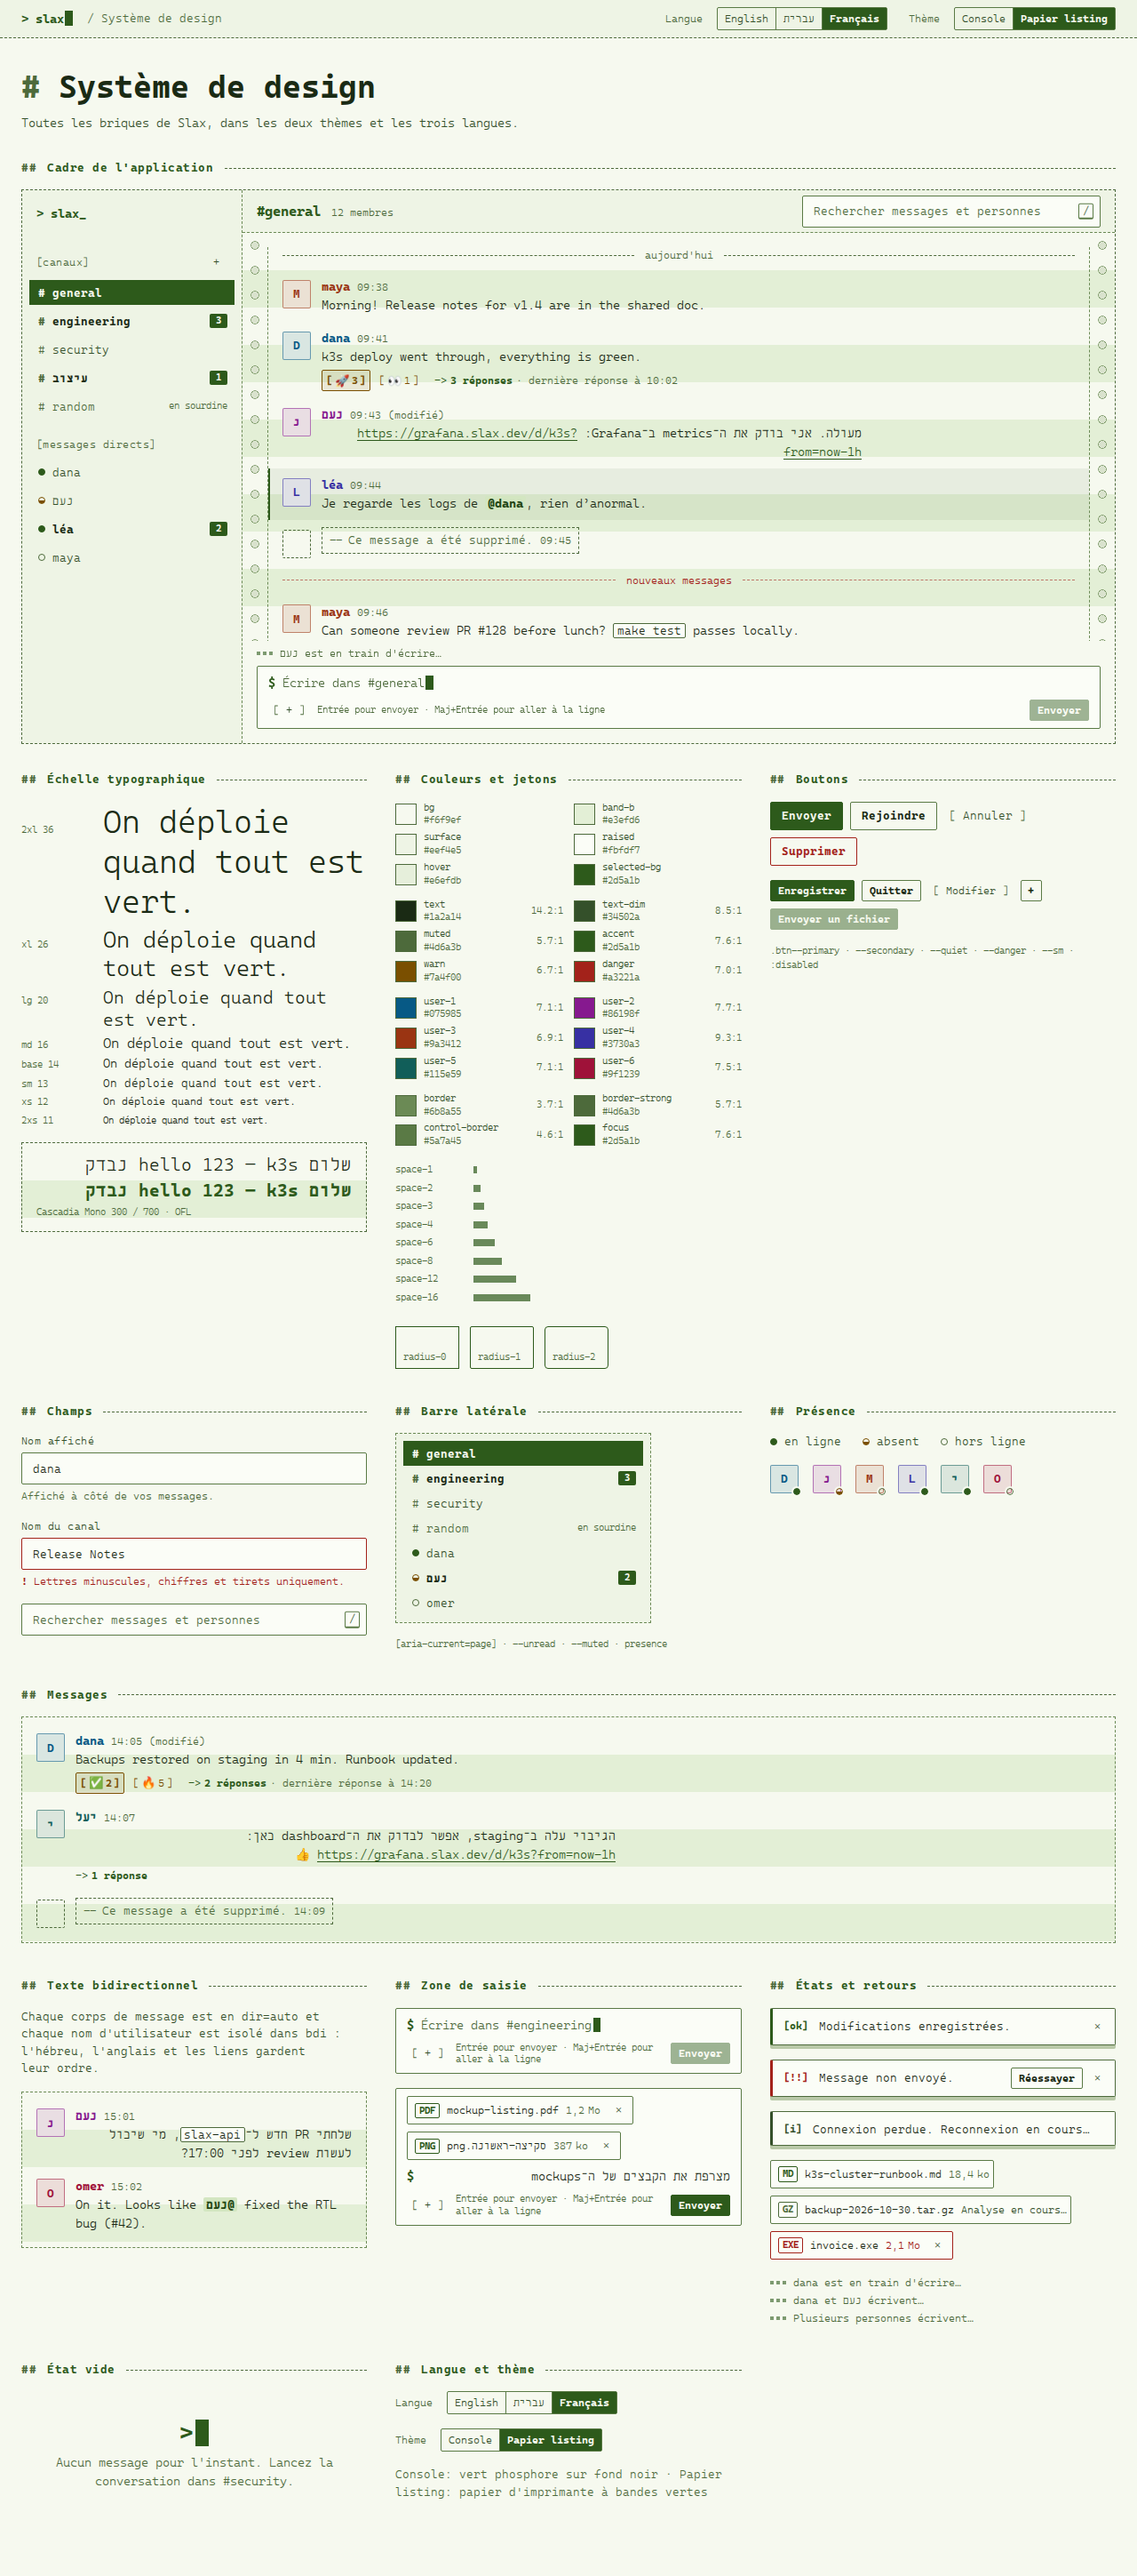
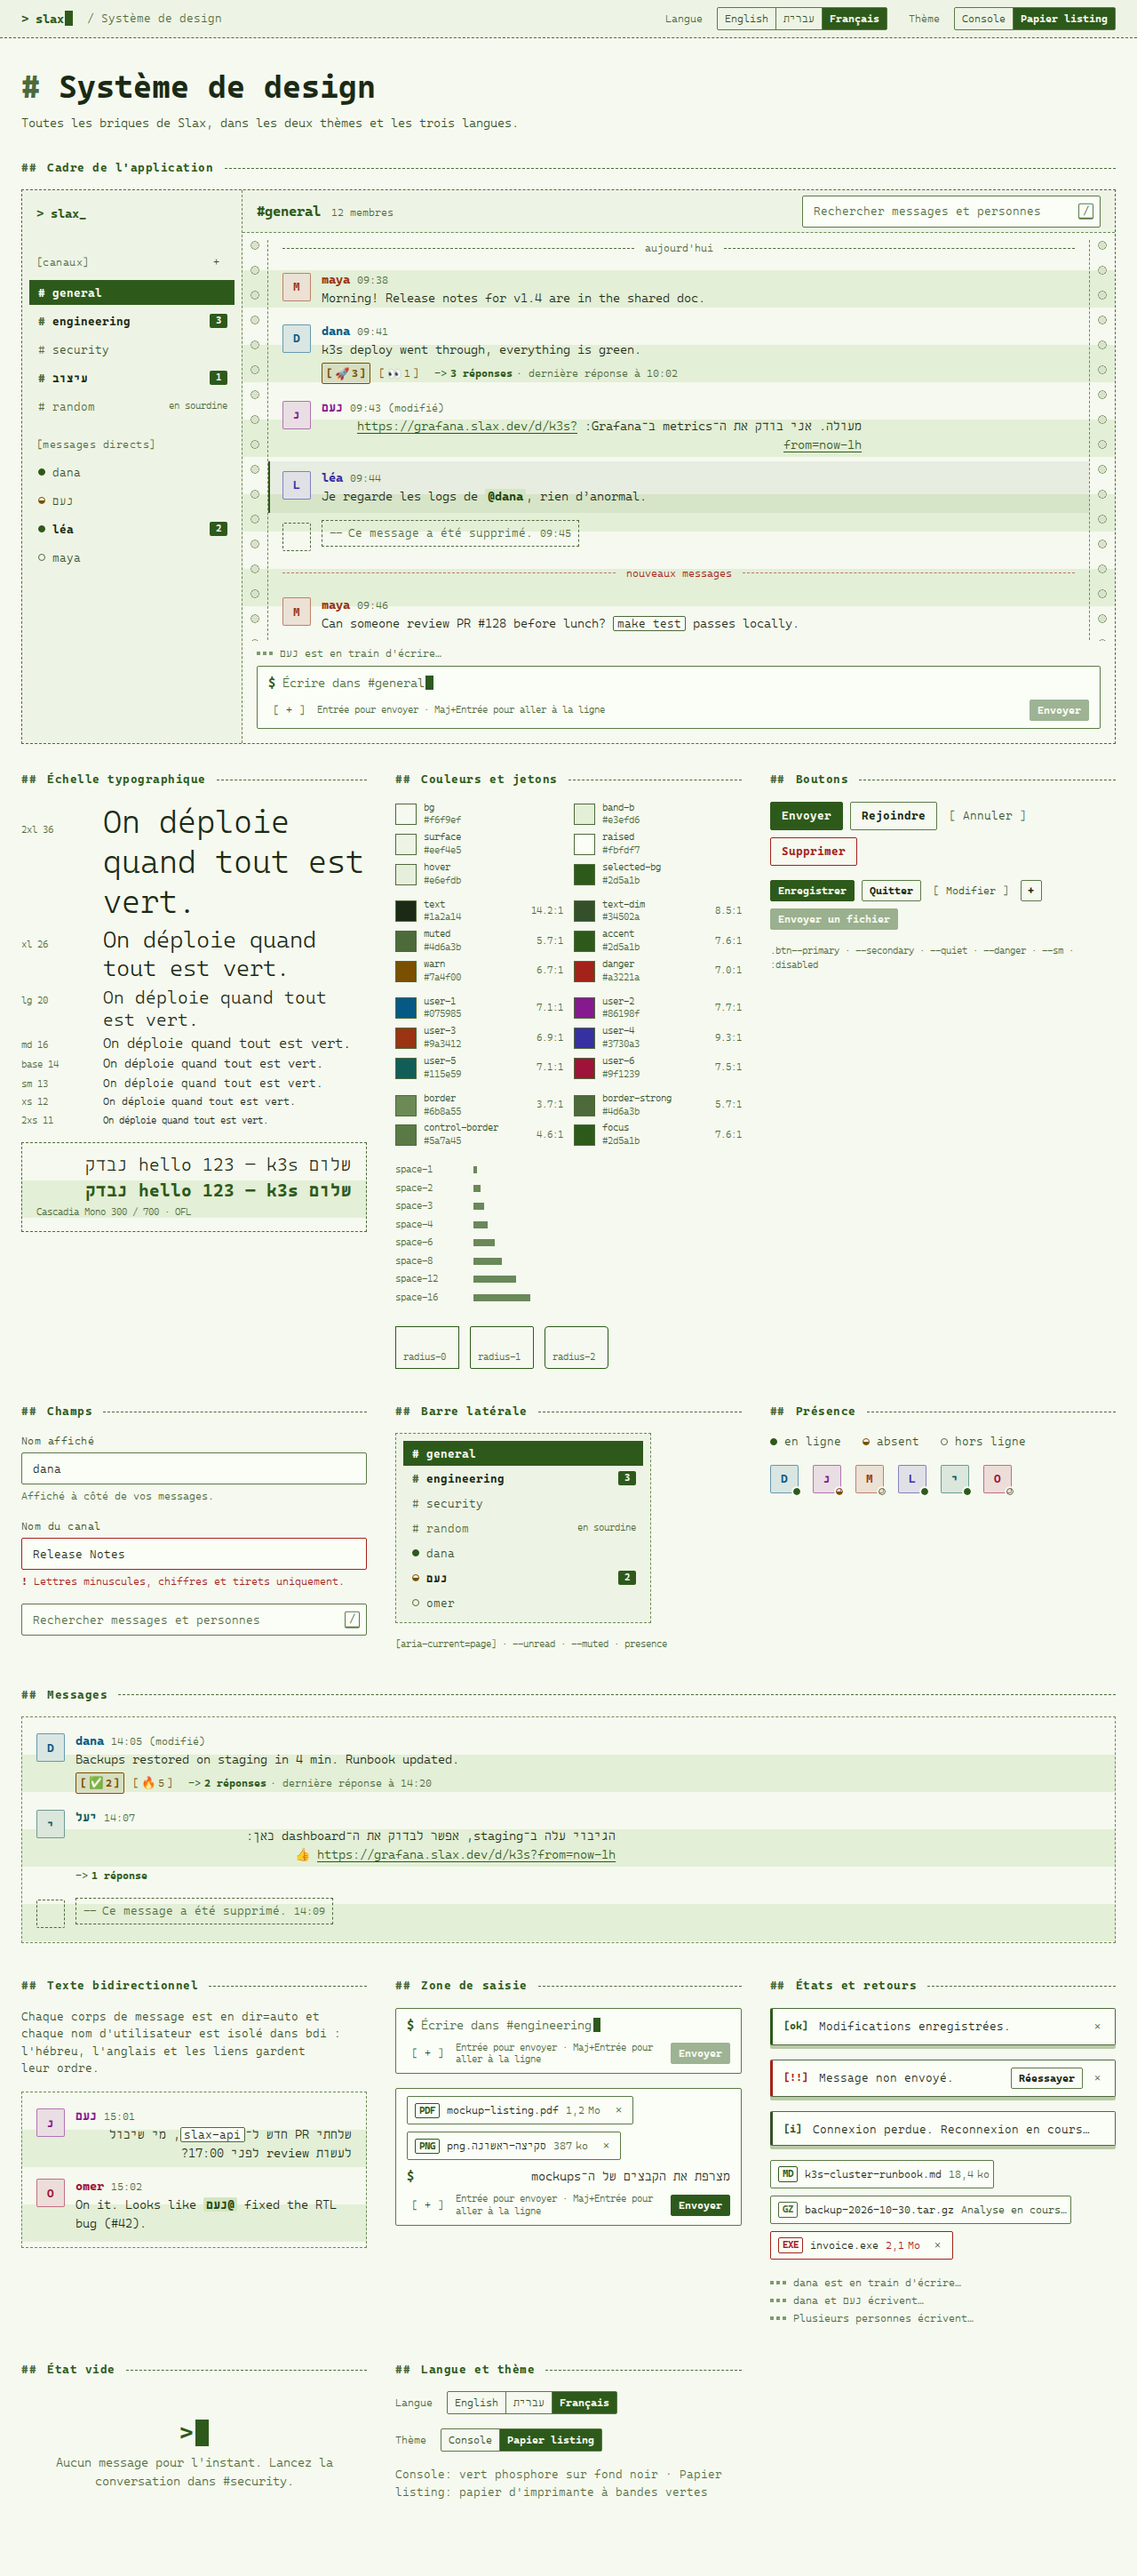
docs: application screenshots from the real app on fixtures
make screenshots now also builds app-preview.html (design-system build
only) and captures the sign-in screen and the workspace in both themes
and three languages, the account menu, a sign-in error and phones, with
the same layout checks, into docs/design/app/. The kitchen-sink shots
are regenerated (messages now sit at the bottom of a short list).

Changed region(s): [[0.25, 0.0932, 0.6875, 0.2795], [0.6875, 0.1553, 0.75, 0.1863], [0.5625, 0.0932, 0.625, 0.1242]]

diff --git a/frontend/src/design-system/app-fixtures.ts b/frontend/src/design-system/app-fixtures.ts
@@ -1,0 +1,99 @@
+/**
+ * The real application, fed with fixtures instead of a server: a stand-in `fetch` that
+ * answers the few API routes the screens need, and a realtime client that never
+ * delivers anything. Used by app-preview.html for review screenshots only (it is part
+ * of the design-system build, never of the production one).
+ */
+import { signal } from '@preact/signals'
+import type { Channel, Me, Message, UserSummary } from '../api/types.ts'
+import type { Realtime } from '../realtime/echo.ts'
+
+const ALICE: UserSummary = { id: 1, name: 'Alice Martin', avatar_url: null }
+const DANA: UserSummary = { id: 2, name: 'dana', avatar_url: null }
+const NOAM: UserSummary = { id: 3, name: 'נעם', avatar_url: null }
+const ME: Me = { ...ALICE, email: 'alice@example.test', locale: 'en', theme: 'console', is_admin: false }
+
+const base = new Date()
+const at = (daysAgo: number, hh: number, mm: number) =>
+  new Date(base.getFullYear(), base.getMonth(), base.getDate() - daysAgo, hh, mm).toISOString()
+
+let nextId = 1
+function message(user: UserSummary, channelId: number, body: string, created: string, extra: Partial<Message> = {}): Message {
+  const id = nextId++
+  return {
+    id,
+    channel_id: channelId,
+    parent_id: null,
+    created_at: created,
+    reply_count: 0,
+    last_reply_at: null,
+    deleted: false,
+    client_id: `00000000-0000-4000-8000-${String(id).padStart(12, '0')}`,
+    user,
+    body,
+    edited_at: null,
+    reactions: [],
+    files: [],
+    ...extra,
+  } as Message
+}
+
+const GRAFANA = 'https://grafana.slax.dev/d/k3s?from=now-1h'
+
+const general: Message[] = [
+  message(DANA, 1, 'Release notes for v1.4 are in the shared doc. Ping me if something is missing.', at(1, 16, 20)),
+  message(ALICE, 1, 'Thanks! Reading them now.', at(1, 16, 23)),
+  message(NOAM, 1, `מעולה. אני בודק את ה־metrics ב־Grafana: ${GRAFANA}`, at(0, 9, 38), { edited_at: at(0, 9, 39) }),
+  message(NOAM, 1, 'הכול ירוק 🚀', at(0, 9, 39)),
+  message(DANA, 1, 'k3s deploy went through, everything is green.', at(0, 9, 42)),
+  message(ALICE, 1, 'Great work @dana and @נעם 🎉', at(0, 9, 44)),
+]
+const lastRead = general[general.length - 1].id
+general.push(
+  { id: nextId++, channel_id: 1, parent_id: null, created_at: at(0, 9, 45), reply_count: 0, last_reply_at: null, deleted: true },
+  message(DANA, 1, 'Can someone review PR #128 before lunch? make test passes locally.', at(0, 9, 47)),
+  message(NOAM, 1, 'אני על זה. Looking at the diff now.', at(0, 9, 49)),
+  message(NOAM, 1, 'Two small comments, otherwise LGTM.', at(0, 9, 51)),
+)
+
+const channels: Channel[] = [
+  room(1, 'general', 'Announcements and everything that fits nowhere else', { member_count: 12, last_read_message_id: lastRead, unread_count: 3 }),
+  room(2, 'ingenierie', 'Engineering', { unread_count: 3 }),
+  room(5, 'ops-oncall', 'Pager rotation', { kind: 'private', unread_count: 128, member_count: 4 }),
+  room(3, 'random', 'Off-topic chatter'),
+  room(4, 'securite', 'Security', { is_member: false }),
+  { ...room(6, '', null), kind: 'dm', name: null, member_count: 2, members: [ALICE, DANA] },
+  { ...room(7, '', null), kind: 'dm', name: null, member_count: 2, members: [ALICE, NOAM], unread_count: 1 },
+  { ...room(8, '', null), kind: 'group_dm', name: null, member_count: 3, members: [ALICE, DANA, NOAM] },
+]
+
+function room(id: number, name: string, topic: string | null, extra: Partial<Channel> = {}): Channel {
+  return { id, kind: 'public', name, topic, is_member: true, member_count: 8, last_read_message_id: null, unread_count: 0, ...extra }
+}
+
+const json = (body: unknown, status = 200) =>
+  new Response(body === undefined ? null : JSON.stringify(body), { status, headers: { 'Content-Type': 'application/json' } })
+
+export function installFixtureServer({ signedIn }: { signedIn: boolean }): void {
+  globalThis.fetch = async (input: RequestInfo | URL) => {
+    const url = new URL(String(input instanceof Request ? input.url : input), location.href)
+    const path = url.pathname
+    if (path === '/api/v1/me') return signedIn ? json(ME) : json({ message: 'Unauthenticated.' }, 401)
+    if (path === '/api/v1/channels') return json(channels)
+    const list = /^\/api\/v1\/channels\/(\d+)\/messages$/.exec(path)
+    if (list) {
+      const id = Number(list[1])
+      const data = id === 1 ? general : id === 4 ? [message(NOAM, 4, 'Rotated the Turnstile keys.', at(0, 8, 12))] : []
+      return json({ data, has_more: false })
+    }
+    return json(undefined, 204)
+  }
+}
+
+/** Connected, silent. */
+export const fixtureRealtime: Realtime = {
+  state: signal('connected'),
+  subscribe: () => () => undefined,
+  onReconnect: () => () => undefined,
+  disconnect: () => undefined,
+}

diff --git a/frontend/src/design-system/app-preview.tsx b/frontend/src/design-system/app-preview.tsx
@@ -1,0 +1,29 @@
+/**
+ * The real application on fixtures, for review screenshots (`make screenshots`):
+ * ?screen=signed-out|app, ?theme=console|listing, ?lang=en|he|fr, and
+ * ?auth_error=<code> on the sign-in screen.
+ */
+import { render } from 'preact'
+import '../styles/index.css'
+import { App } from '../app.tsx'
+import { initLocale, isLocale, setLocale } from '../i18n/index.ts'
+import { listenToHistory } from '../router.ts'
+import { boot, installClientEvents } from '../session.ts'
+import { initTheme, isTheme, setTheme } from '../theme.ts'
+import { fixtureRealtime, installFixtureServer } from './app-fixtures.ts'
+
+initTheme()
+initLocale()
+const params = new URLSearchParams(location.search)
+const theme = params.get('theme')
+const lang = params.get('lang')
+if (isTheme(theme)) setTheme(theme)
+if (isLocale(lang)) setLocale(lang)
+
+installFixtureServer({ signedIn: params.get('screen') !== 'signed-out' })
+installClientEvents()
+listenToHistory()
+void boot()
+
+const neverAsked = { token: () => new Promise<string>(() => undefined) }
+render(<App connect={async () => fixtureRealtime} turnstile={neverAsked} />, document.getElementById('app')!)

diff --git a/frontend/vite.config.ts b/frontend/vite.config.ts
@@ -4,12 +4,14 @@ import { defineConfig } from 'vite'
 
 export default defineConfig(({ mode }) => ({
   plugins: [preact()],
-  // The design-system kitchen sink (design-system.html) is served by the dev
-  // server like any page, but a production build ships the app only. Its own
-  // build exists for `make screenshots`: `vite build --mode design-system`.
+  // The design-system kitchen sink (design-system.html) and the app preview
+  // (app-preview.html) are served by the dev server like any page, but a
+  // production build ships the app only. Their own build exists for
+  // `make screenshots`: `vite build --mode design-system`.
   build: {
     outDir: mode === 'design-system' ? 'dist-design-system' : 'dist',
-    rolldownOptions: { input: mode === 'design-system' ? 'design-system.html' : 'index.html' },
+    // The design-system build also carries app-preview.html: the real app on fixtures, for screenshots.
+    rolldownOptions: { input: mode === 'design-system' ? ['design-system.html', 'app-preview.html'] : 'index.html' },
   },
   server: {
     // In Docker the browser reaches Vite through the nginx proxy, not port 5173.

diff --git a/frontend/app-preview.html b/frontend/app-preview.html
@@ -1,0 +1,17 @@
+<!doctype html>
+<html lang="en" dir="ltr">
+  <head>
+    <meta charset="UTF-8" />
+    <link rel="icon" type="image/svg+xml" href="/favicon.svg" />
+    <meta name="viewport" content="width=device-width, initial-scale=1.0" />
+    <meta name="color-scheme" content="dark light" />
+    <meta name="robots" content="noindex" />
+    <link rel="preload" href="/fonts/cascadia-mono-latin-300.woff2" as="font" type="font/woff2" crossorigin />
+    <link rel="preload" href="/fonts/cascadia-mono-latin-700.woff2" as="font" type="font/woff2" crossorigin />
+    <title>Slax · app preview</title>
+  </head>
+  <body>
+    <div id="app"></div>
+    <script type="module" src="/src/design-system/app-preview.tsx"></script>
+  </body>
+</html>

diff --git a/frontend/src/build.test.ts b/frontend/src/build.test.ts
@@ -23,11 +23,13 @@ describe('production build', () => {
     const out = await buildInto()
     expect(existsSync(join(out, 'index.html'))).toBe(true)
     expect(existsSync(join(out, 'design-system.html'))).toBe(false)
+    expect(existsSync(join(out, 'app-preview.html'))).toBe(false)
     expect(existsSync(join(out, 'fonts', 'OFL.txt'))).toBe(true)
   }, 60_000)
 
   it('builds the kitchen sink only in the design-system mode (used by make screenshots)', async () => {
     const out = await buildInto('design-system')
     expect(existsSync(join(out, 'design-system.html'))).toBe(true)
+    expect(existsSync(join(out, 'app-preview.html'))).toBe(true)
   }, 60_000)
 })

diff --git a/docs/design-system.md b/docs/design-system.md
@@ -6,6 +6,7 @@ The look of an old monitor, built with modern CSS. Two themes, three languages (
 - **Review screenshots:** `make screenshots` captures `docs/design/` with headless Chromium in the official Playwright image. Playwright is installed inside that container only, so it is not an app dependency. You get six 1280×900 shots (`{console,listing}-{en,he,fr}.png`), their full-page versions under `docs/design/full/`, and `mobile-console-fr.png` at 390×844.
   - **It checks before it saves.** All 12 combinations (2 themes × 3 languages × 1280/390px) are loaded and checked.
   - **It fails on:** any sideways page scroll, a clipped input or composer placeholder (text measured against the field's content box), console errors, and failed requests.
+  - **The application too:** `app-preview.html` (same build, never in production) runs the real app on fixtures: a stand-in `fetch` and a silent realtime client (`src/design-system/app-fixtures.ts`). Its shots go to `docs/design/app/`: the sign-in screen and the workspace in 2 themes × 3 languages at 1280×800, the account menu, a sign-in error, and 390px phones (conversation, open channel drawer, sign-in) in `console`/French and `listing`/Hebrew. The same checks apply.
 - **Code:** tokens and styles are in `frontend/src/styles/`, reusable components in `frontend/src/components/ui/`, i18n in `frontend/src/i18n/`, and the theme logic in `frontend/src/theme.ts`.
 
 > Status: first version, submitted for yechpa's review before Task 9. The Hebrew strings in particular are a proposal, not final.
@@ -184,8 +185,8 @@ All components are presentational Preact components, one job each, for Task 9 to
 - `Segmented`, `LocaleSwitcher`, `ThemeSwitcher`
 - `PresenceDot`: online is filled, away is half-filled and offline is hollow, so the state never relies on colour alone
 - `Avatar`
-- `NavItem`: current, unread with badge, muted, DM with presence
-- `Message`: avatar, `<bdi>` author, `<time>`, edited marker, `dir="auto"` body, footer, hover/focus toolbar
+- `NavItem`: current, unread with badge (shown up to `99+`, the accessible name keeps the true count), muted (with its own `tag`, e.g. "not joined"), DM with presence, `leading` slot (avatar, padlock)
+- `Message`: avatar, `<bdi>` author, `<time>`, edited marker, `dir="auto"` body, footer, hover/focus toolbar; `compact` for a follow-up by the same author (no avatar or visible header, time in the gutter on hover), `busy` while sending
 - `ReactionChip`: `aria-pressed` when mine
 - `ThreadLink`
 - `Tombstone`
@@ -193,7 +194,7 @@ All components are presentational Preact components, one job each, for Task 9 to
 - `TypingIndicator`: keeps its line, so nothing jumps
 - `FileChip`: ready, scanning, error
 - `Toast`: errors use `role=alert`, others `role=status`
-- `Composer`
+- `Composer`: IME-safe Enter, optional `maxLength` with a counter in the last 200 characters (code points, like the server), `+` only when `onAttach` is given
 - `EmptyState`
 
 Layout classes: `.shell` collapses below 44rem *of its own width* (a container query): the sidebar becomes an overlay opened from the channel header.
